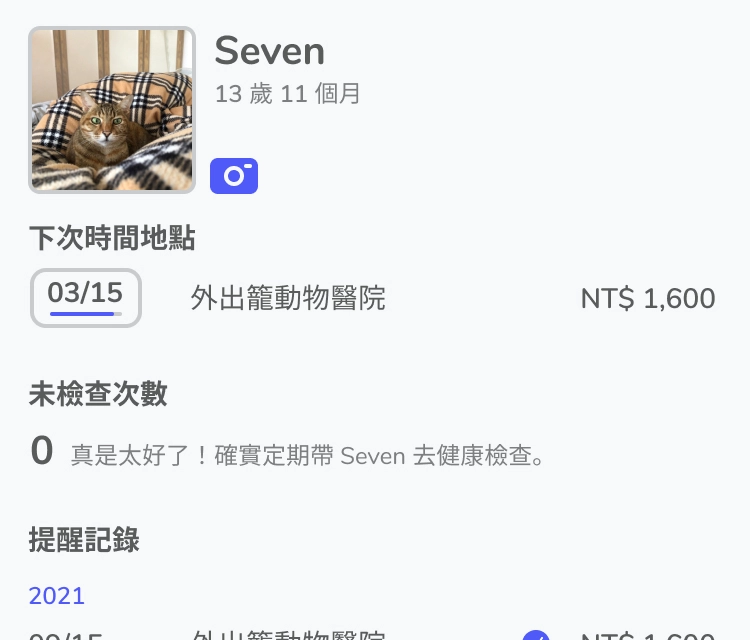
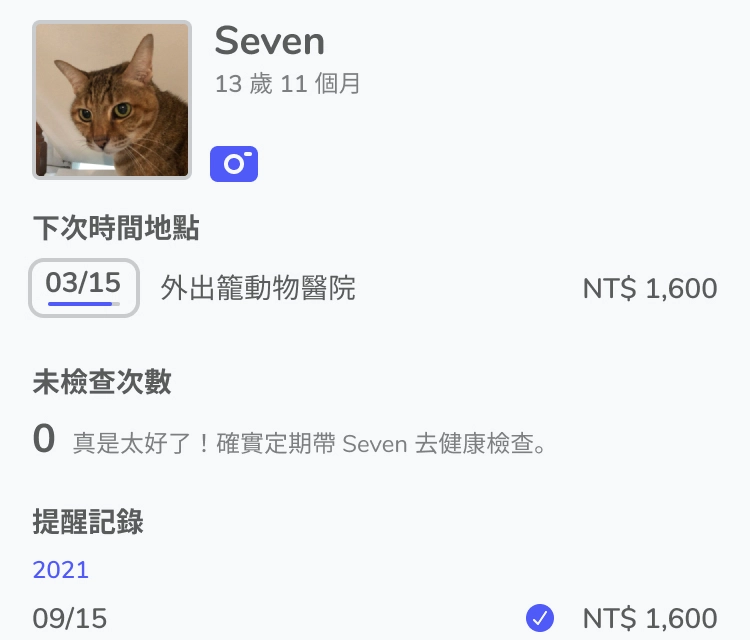
Update screenshots for Carrier Express

diff --git a/projects/carrier/Cover.tsx b/projects/carrier/Cover.tsx
@@ -56,7 +56,7 @@ export default function Cover() {
       </Device>
       <Device display={{ '@initial': 'none', '@m768': 'block' }} responsive="tablet" model="mobileDual">
         <ScreenshotTablet src={`/projects/carrier/gallery/${imgLocale}/homeIndex${imgAffix}.jpg`} placement="left" alt="Screenshot: Upcoming Health Checks" loading="lazy" />
-        <ScreenshotTablet src={`/projects/carrier/gallery/${imgLocale}/furryShowOnTime${imgAffix}.jpg`} placement="right" alt="Screenshot: View the details of Seven" loading="lazy" />
+        <ScreenshotTablet src={`/projects/carrier/gallery/${imgLocale}/furryShowDelayed${imgAffix}.jpg`} placement="right" alt="Screenshot: View the details of Seven" loading="lazy" />
       </Device>
     </>
   )
